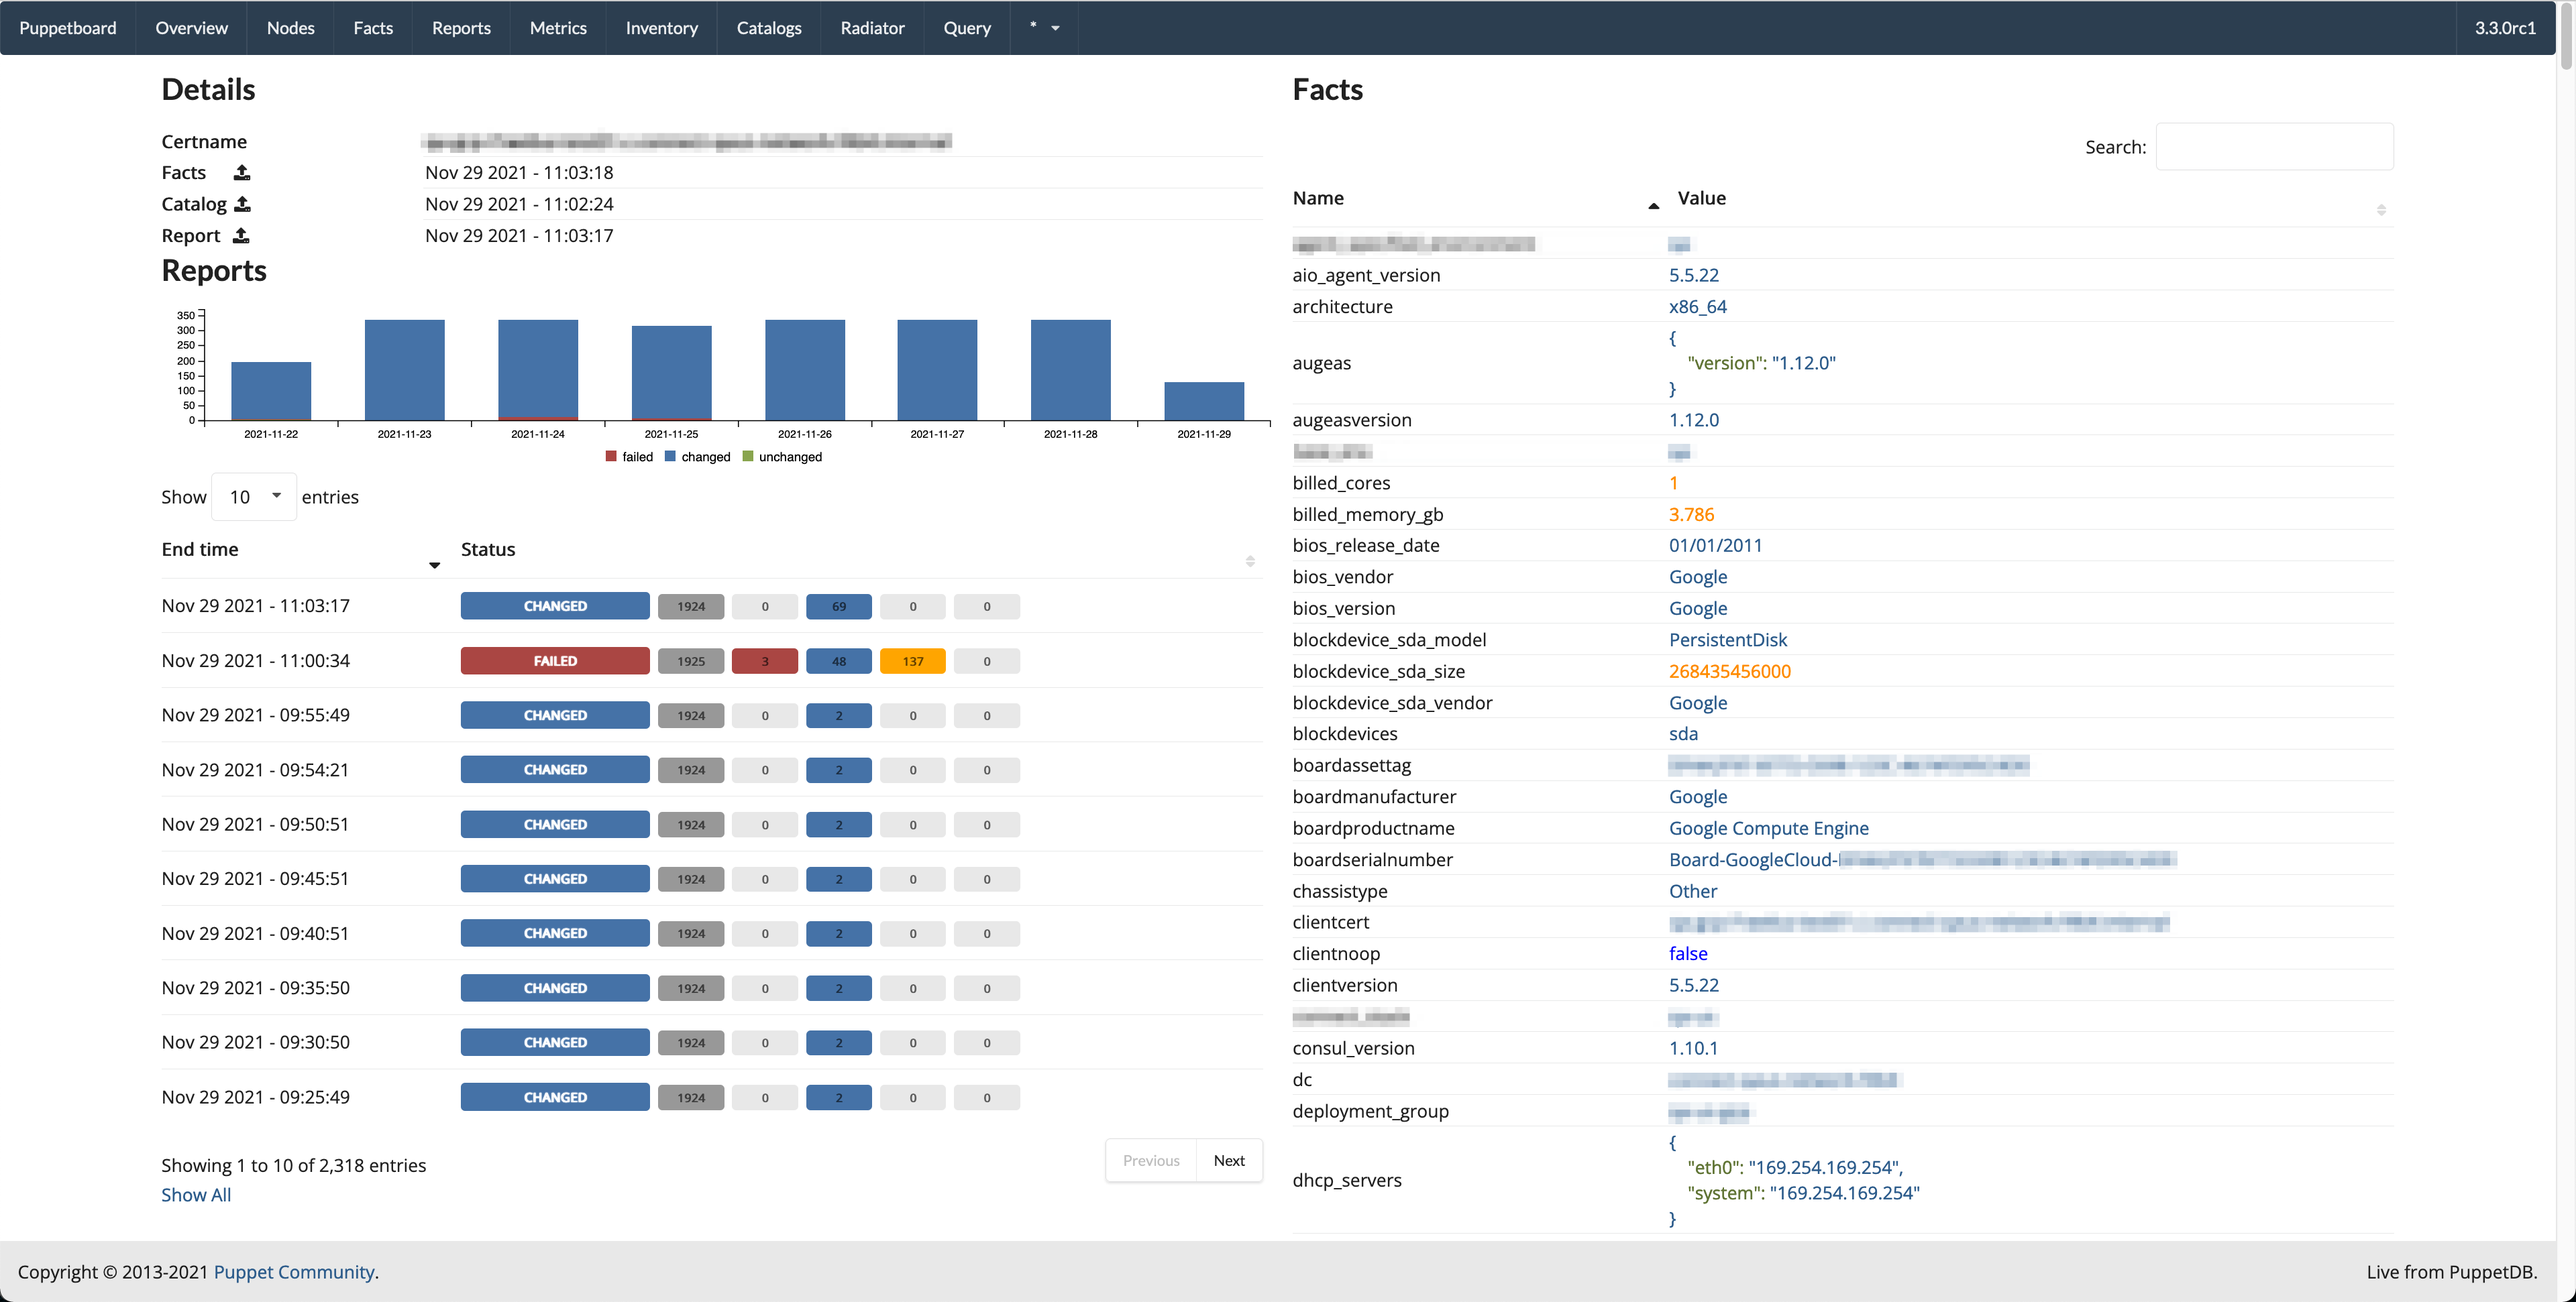
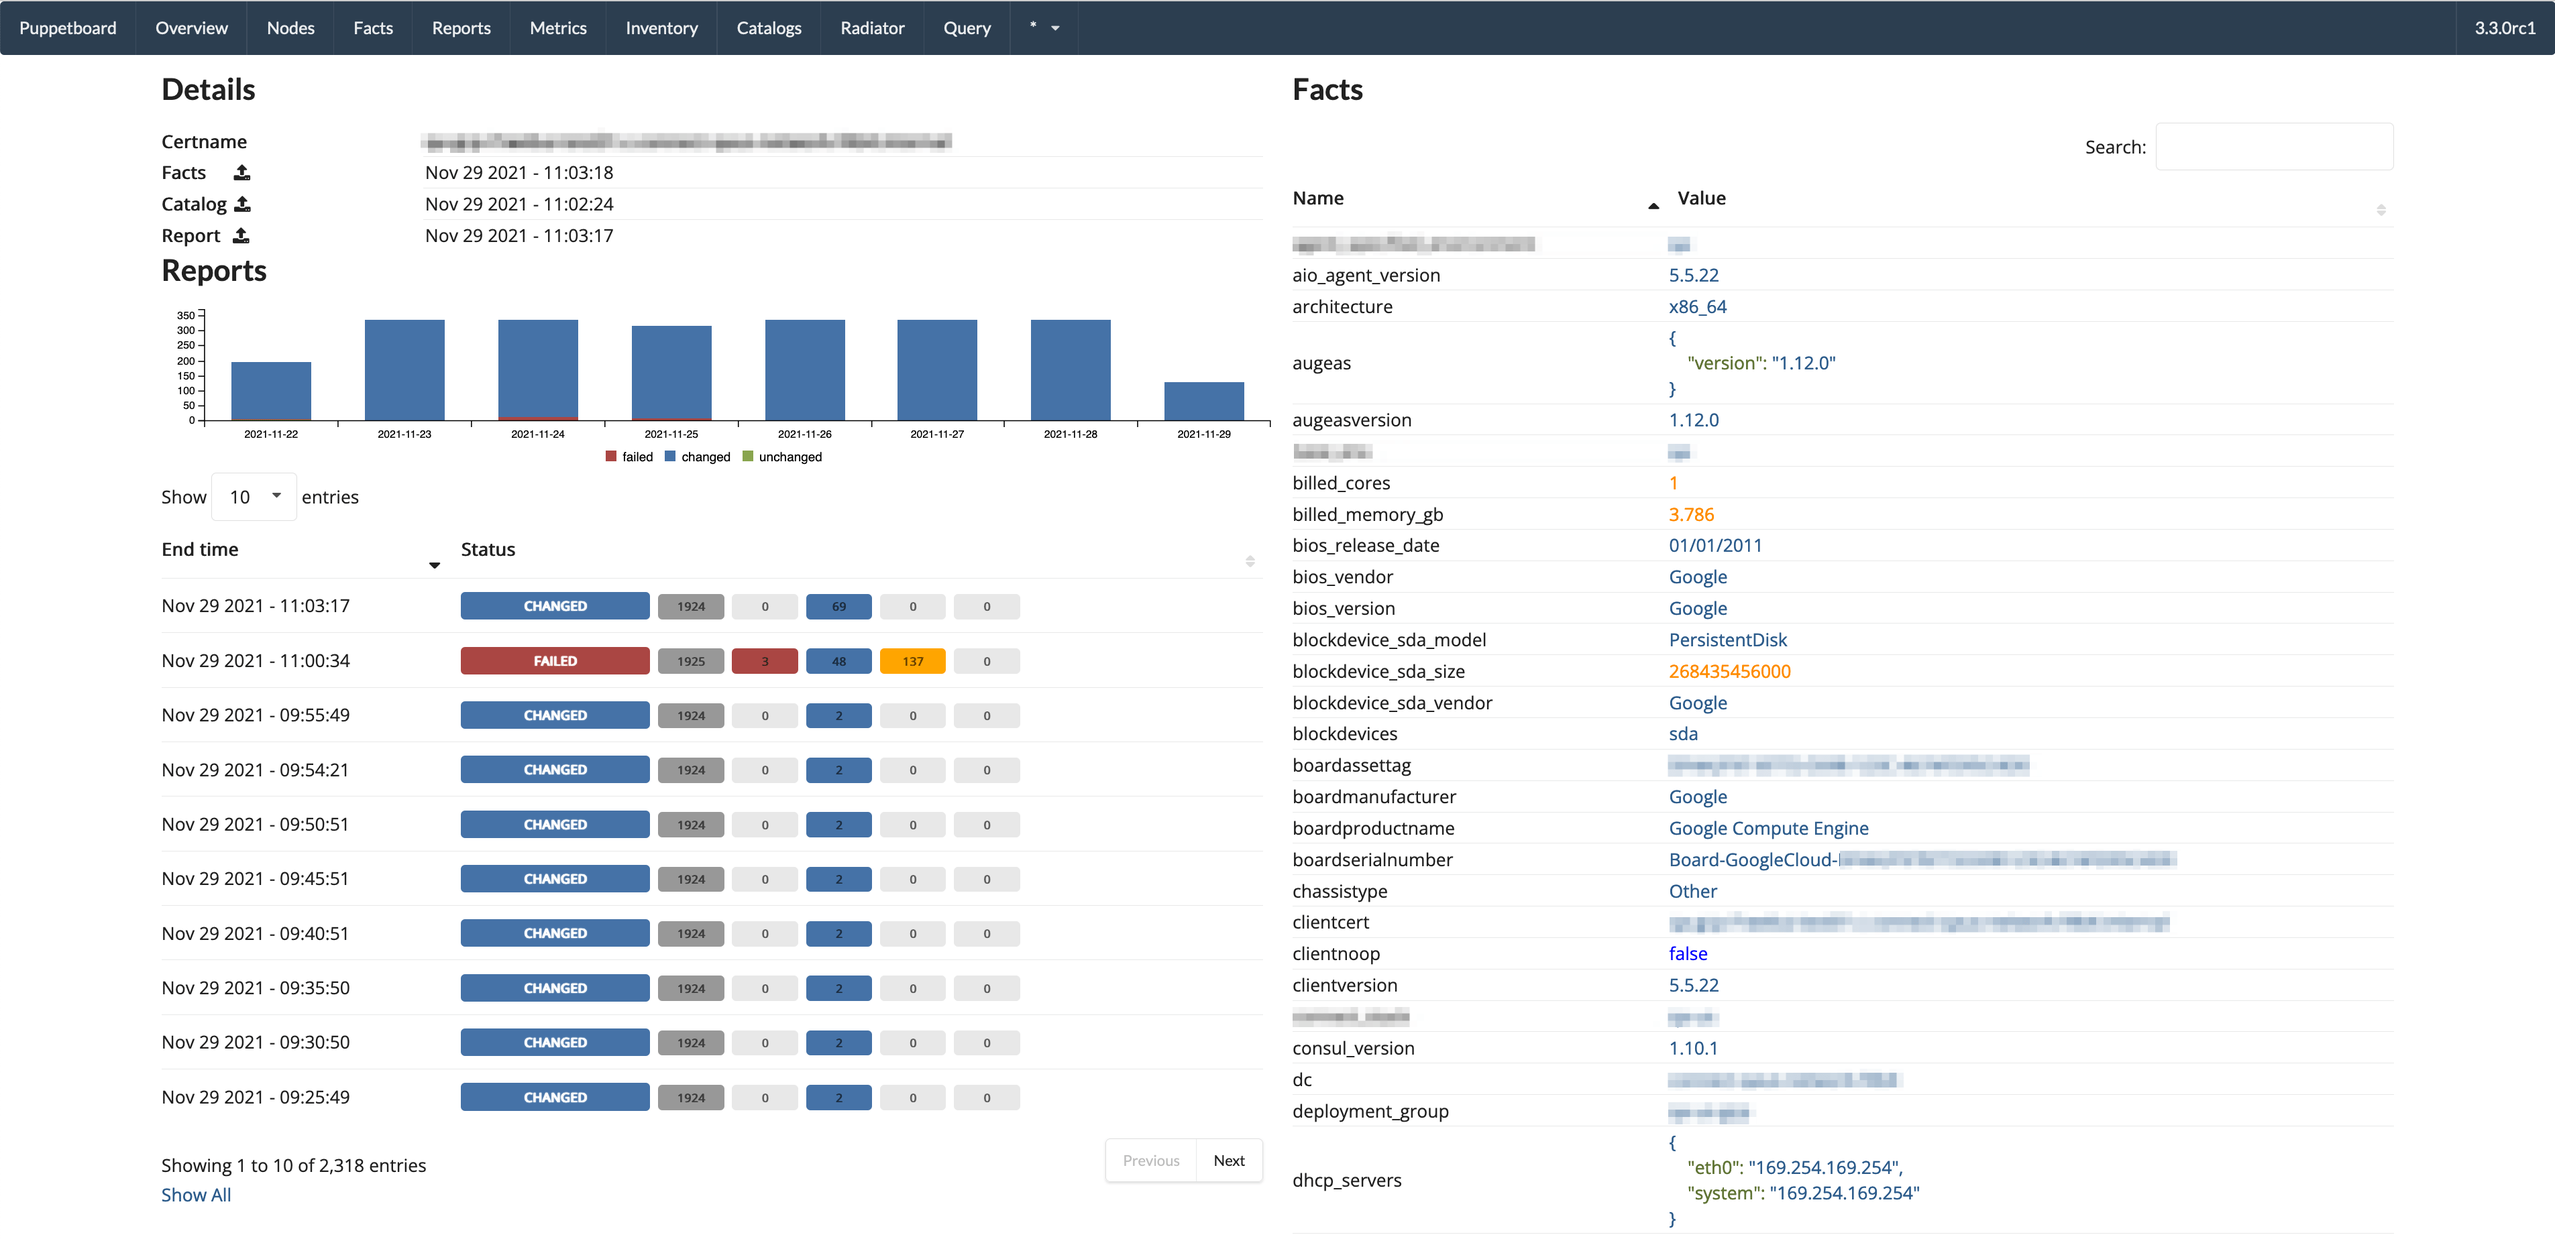
Update screenshots
mostly overview, (new) failures and query

diff --git a/README.md b/README.md
@@ -11,7 +11,7 @@ Puppetboard is a web interface to [PuppetDB](https://puppet.com/docs/puppetdb/la
 the reporting functionality of [Puppet Enterprise console (previously: Puppet Dashboard)](https://puppet.com/docs/pe/latest/console_accessing.html)
 for the open source Puppet.
 
-![View of a node](https://raw.githubusercontent.com/voxpupuli/puppetboard/master/screenshots/overview.png)
+![Overview](https://raw.githubusercontent.com/voxpupuli/puppetboard/master/screenshots/overview.png)
 
 See [more screenshots here](#more-screenshots).
 
@@ -292,9 +292,13 @@ by Tim Pope](https://tbaggery.com/2008/04/19/a-note-about-git-commit-messages.ht
 
 ![All nodes that have this fact with that value](https://raw.githubusercontent.com/voxpupuli/puppetboard/master/screenshots/fact_value.png)
 
-* Query view
+* Query view - results as table
 
-![Query view](https://raw.githubusercontent.com/voxpupuli/puppetboard/master/screenshots/query.png)
+![Query view](https://raw.githubusercontent.com/voxpupuli/puppetboard/master/screenshots/query_result_table.png)
+
+* Query view - results as JSON
+
+![Query view](https://raw.githubusercontent.com/voxpupuli/puppetboard/master/screenshots/query_result_json.png)
 
 * Metrics view
 
